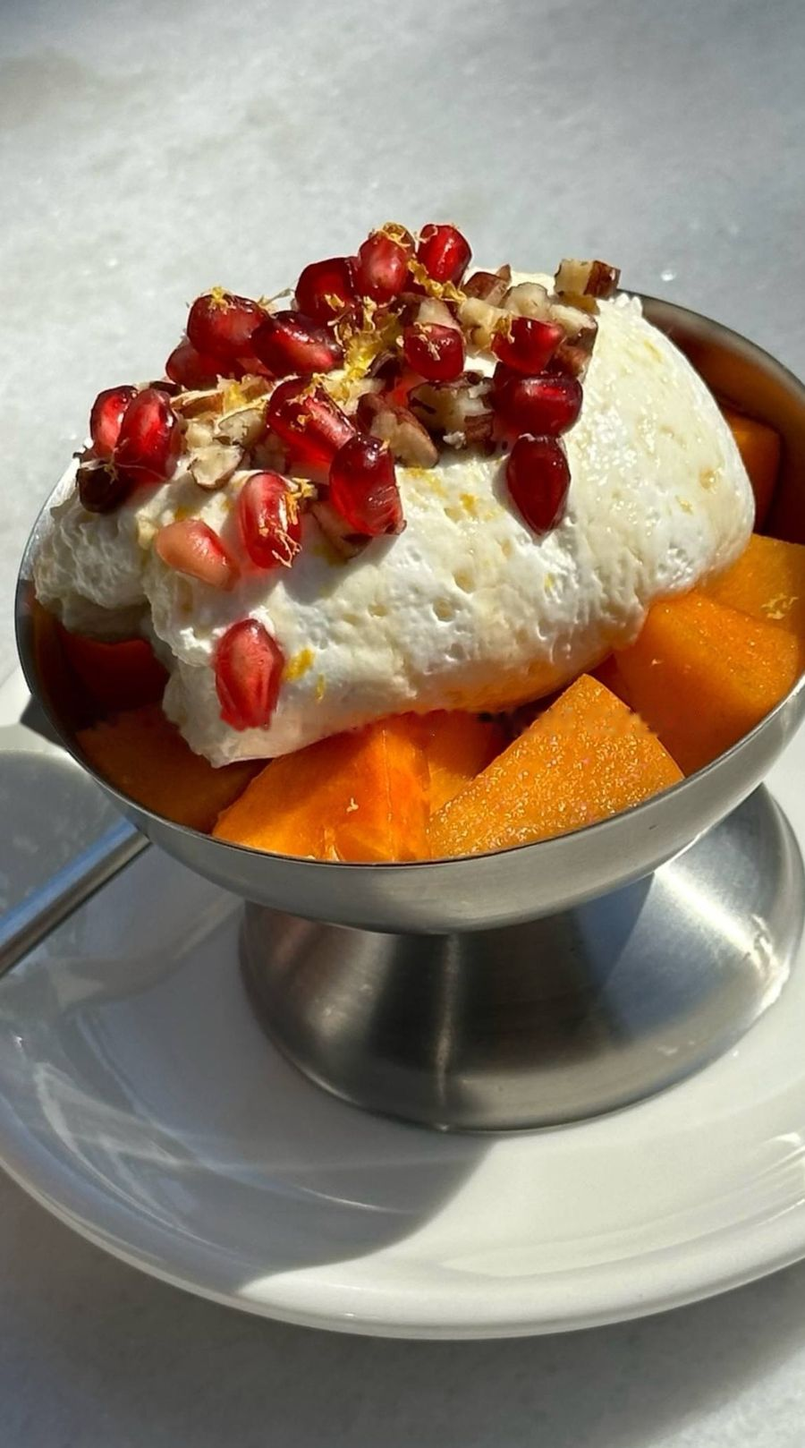
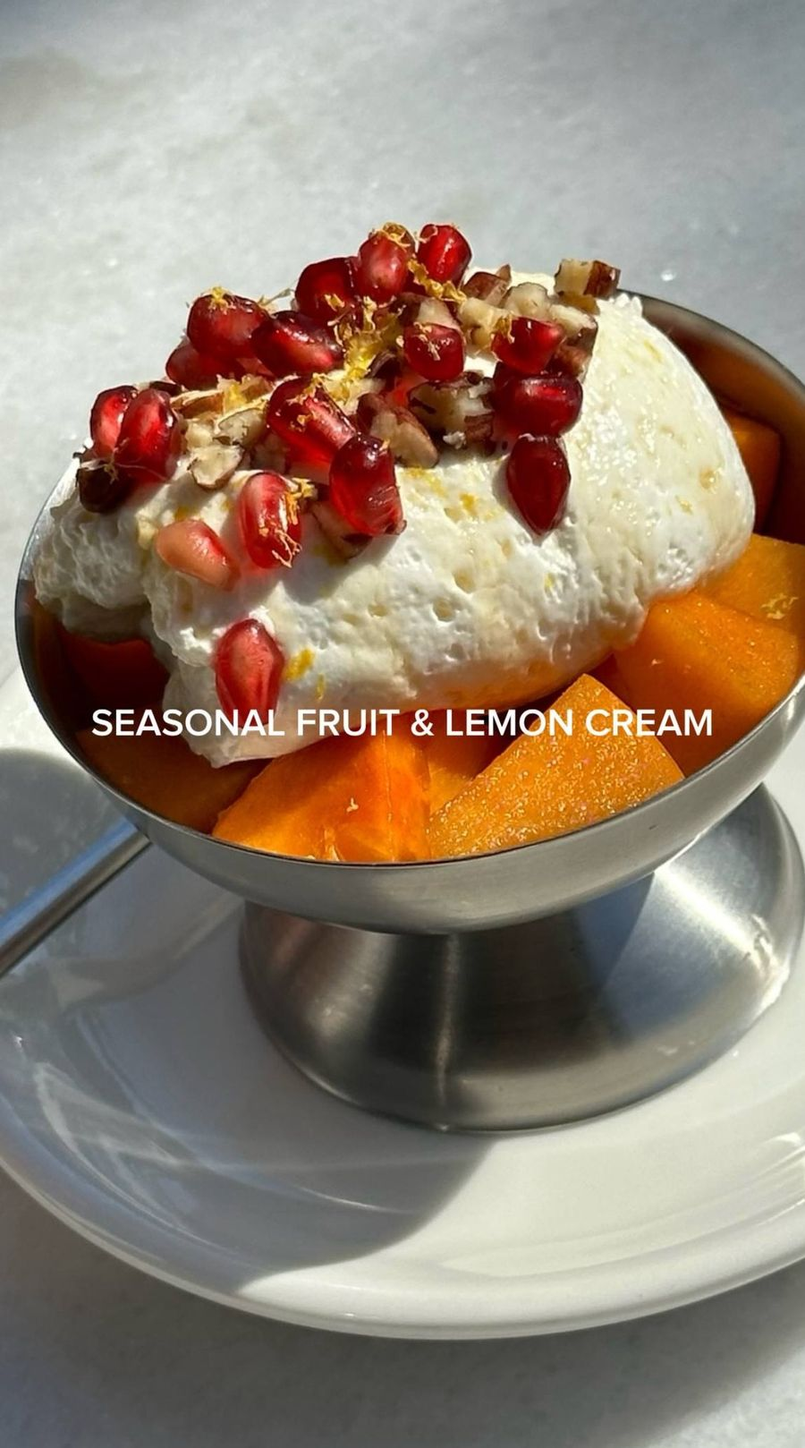
Menu dish photos: keep the Instagram dish-name overlays, drop duplicate captions
Claude-Session: https://claude.ai/code/session_01V5p9waPZsE8MXT3q82iYXb

Changed region(s): [[0.1244, 0.4635, 0.9022, 0.5253], [0.0, 0.4635, 0.0933, 0.5253], [0.9644, 0.4635, 0.9956, 0.4944]]

diff --git a/public/pt/menu/index.html b/public/pt/menu/index.html
@@ -106,7 +106,7 @@ footer{margin-top:72px;padding-top:20px;border-top:1px solid var(--rule);color:v
 <nav class="sections" aria-label="Secções do menu"><ul><li><a href="#breakfast">Pequeno-almoço</a></li><li><a href="#omelettes">Omeletes</a></li><li><a href="#crepes">Crêpes</a></li><li><a href="#brunch">Brunch</a></li><li><a href="#desserts">Sobremesas</a></li><li><a href="#coffee">Café</a></li><li><a href="#matcha">Matcha</a></li><li><a href="#ceremonial">Cerimonial</a></li><li><a href="#specials">Especiais</a></li><li><a href="#chocolate">Chocolate</a></li><li><a href="#tea">Chá e bebidas</a></li><li><a href="#wine">Vinho</a></li></ul></nav>
 <section class="sec" id="breakfast" data-photo="dishes/scrambled-eggs" aria-labelledby="h-breakfast">
 <h2 id="h-breakfast">Crie o seu pequeno-almoço</h2>
-<div class="strip"><figure><img src="/menu/img/dishes/scrambled-eggs.jpg" alt="Ovos mexidos" width="900" height="1125" loading="lazy" decoding="async"><figcaption>Ovos mexidos</figcaption></figure><figure><img src="/menu/img/dishes/breakfast-plate.jpg" alt="Prato de pequeno-almoço" width="900" height="1125" loading="lazy" decoding="async"><figcaption>Prato de pequeno-almoço</figcaption></figure></div>
+<div class="strip"><figure><img src="/menu/img/dishes/scrambled-eggs.jpg" alt="Ovos mexidos" width="900" height="1125" loading="lazy" decoding="async"></figure><figure><img src="/menu/img/dishes/breakfast-plate.jpg" alt="Prato de pequeno-almoço" width="900" height="1125" loading="lazy" decoding="async"></figure></div>
 <div class="item" data-photo="dishes/scrambled-eggs"><p class="item-head"><span class="item-name">Ovos mexidos</span><span class="leader" aria-hidden="true"></span><span class="price">9</span></p><p class="desc">Ovos mexidos cremosos, iogurte grego, parmesão e pão de fermentação natural tostado</p></div>
 <div class="item" data-photo="dishes/breakfast-plate"><p class="item-head"><span class="item-name">Prato de pequeno-almoço</span><span class="leader" aria-hidden="true"></span><span class="price">10</span></p><p class="desc">Pão de fermentação natural, queijo, abacate, ovo cozido, manteiga batida e compota de mirtilos</p></div>
 <h3 class="group">Escolha os seus extras</h3><ul class="extras">
@@ -128,7 +128,7 @@ footer{margin-top:72px;padding-top:20px;border-top:1px solid var(--rule);color:v
 </section>
 <section class="sec" id="omelettes" data-photo="dishes/four-cheese-omelette" aria-labelledby="h-omelettes">
 <h2 id="h-omelettes">Omeletes</h2>
-<div class="strip"><figure><img src="/menu/img/dishes/four-cheese-omelette.jpg" alt="Omelete de quatro queijos e doce de cebola" width="900" height="1125" loading="lazy" decoding="async"><figcaption>Omelete de quatro queijos e doce de cebola</figcaption></figure><figure><img src="/menu/img/dishes/truffle-mushroom-omelette.jpg" alt="Omelete de cogumelos trufados" width="900" height="1125" loading="lazy" decoding="async"><figcaption>Omelete de cogumelos trufados</figcaption></figure><figure><img src="/menu/img/dishes/green-omelette.jpg" alt="Omelete verde" width="900" height="1125" loading="lazy" decoding="async"><figcaption>Omelete verde</figcaption></figure></div>
+<div class="strip"><figure><img src="/menu/img/dishes/four-cheese-omelette.jpg" alt="Omelete de quatro queijos e doce de cebola" width="900" height="1125" loading="lazy" decoding="async"></figure><figure><img src="/menu/img/dishes/truffle-mushroom-omelette.jpg" alt="Omelete de cogumelos trufados" width="900" height="1125" loading="lazy" decoding="async"></figure><figure><img src="/menu/img/dishes/green-omelette.jpg" alt="Omelete verde" width="900" height="1125" loading="lazy" decoding="async"></figure></div>
 <p class="note">Todas as omeletes são servidas com salada verde. Adicione pão – 2</p>
 <div class="item"><p class="item-head"><span class="item-name">Omelete de fiambre e doce de tomate</span><span class="leader" aria-hidden="true"></span><span class="price">13</span></p><p class="desc">Fiambre, marmelada de tomate, mozzarella e grana padano</p></div>
 <div class="item" data-photo="dishes/four-cheese-omelette"><p class="item-head"><span class="item-name">Omelete de quatro queijos e doce de cebola</span><span class="leader" aria-hidden="true"></span><span class="price">13</span></p><p class="desc">Creme de gorgonzola, compota de cebola, mozzarella, parmesão e nozes caramelizadas</p><p class="add">Adicionar fiambre – 4</p></div>
@@ -137,7 +137,7 @@ footer{margin-top:72px;padding-top:20px;border-top:1px solid var(--rule);color:v
 </section>
 <section class="sec" id="crepes" data-photo="dishes/mushroom-gorgonzola-crepe" aria-labelledby="h-crepes">
 <h2 id="h-crepes">Crêpes</h2>
-<div class="strip"><figure><img src="/menu/img/dishes/mushroom-gorgonzola-crepe.jpg" alt="Crêpe de cogumelos e gorgonzola" width="900" height="1125" loading="lazy" decoding="async"><figcaption>Crêpe de cogumelos e gorgonzola</figcaption></figure><figure><img src="/menu/img/dishes/salted-salmon-crepe.jpg" alt="Crêpe de salmão curado" width="900" height="1125" loading="lazy" decoding="async"><figcaption>Crêpe de salmão curado</figcaption></figure><figure><img src="/menu/img/dishes/crepe-suzette.jpg" alt="Crêpe Suzette" width="900" height="1125" loading="lazy" decoding="async"><figcaption>Crêpe Suzette</figcaption></figure></div>
+<div class="strip"><figure><img src="/menu/img/dishes/mushroom-gorgonzola-crepe.jpg" alt="Crêpe de cogumelos e gorgonzola" width="900" height="1125" loading="lazy" decoding="async"></figure><figure><img src="/menu/img/dishes/salted-salmon-crepe.jpg" alt="Crêpe de salmão curado" width="900" height="1125" loading="lazy" decoding="async"></figure><figure><img src="/menu/img/dishes/crepe-suzette.jpg" alt="Crêpe Suzette" width="900" height="1125" loading="lazy" decoding="async"></figure></div>
 <div class="item"><p class="item-head"><span class="item-name">Crêpe de pastrami, batata e trufa</span><span class="leader" aria-hidden="true"></span><span class="price">14</span></p><p class="desc">Pastrami de vaca, puré de batata, molho de trufa, queijo gouda e doce de tomate</p></div>
 <div class="item" data-photo="dishes/mushroom-gorgonzola-crepe"><p class="item-head"><span class="item-name">Crêpe de cogumelos e gorgonzola</span><span class="leader" aria-hidden="true"></span><span class="price">12</span></p><p class="desc">Juliana de cogumelos, creme de gorgonzola, espinafres, mozzarella e iogurte</p></div>
 <div class="item" data-photo="dishes/salted-salmon-crepe"><p class="item-head"><span class="item-name">Crêpe de salmão curado</span><span class="leader" aria-hidden="true"></span><span class="price">13</span></p><p class="desc">Salmão curado, ovo cozido, cream cheese batido com limão e cebola marinada</p></div>
@@ -145,7 +145,7 @@ footer{margin-top:72px;padding-top:20px;border-top:1px solid var(--rule);color:v
 </section>
 <section class="sec" id="brunch" data-photo="dishes/eggs-benedict-salmon" aria-labelledby="h-brunch">
 <h2 id="h-brunch">Pratos de brunch</h2>
-<div class="strip"><figure><img src="/menu/img/dishes/eggs-benedict-salmon.jpg" alt="Ovos Benedict – salmão" width="900" height="1125" loading="lazy" decoding="async"><figcaption>Ovos Benedict – salmão</figcaption></figure><figure><img src="/menu/img/dishes/eggs-benedict-pastrami.jpg" alt="Ovos Benedict – pastrami" width="900" height="1125" loading="lazy" decoding="async"><figcaption>Ovos Benedict – pastrami</figcaption></figure><figure><img src="/menu/img/dishes/croque-madame.jpg" alt="Croque madame" width="900" height="1125" loading="lazy" decoding="async"><figcaption>Croque madame</figcaption></figure><figure><img src="/menu/img/dishes/savory-oatmeal.jpg" alt="Papas de aveia salgadas com fiambre" width="900" height="1125" loading="lazy" decoding="async"><figcaption>Papas de aveia salgadas com fiambre</figcaption></figure><figure><img src="/menu/img/dishes/sweet-oatmeal.jpg" alt="Papas de aveia doces com compota de mirtilos" width="900" height="1125" loading="lazy" decoding="async"><figcaption>Papas de aveia doces com compota de mirtilos</figcaption></figure></div>
+<div class="strip"><figure><img src="/menu/img/dishes/eggs-benedict-salmon.jpg" alt="Ovos Benedict – salmão" width="900" height="1125" loading="lazy" decoding="async"></figure><figure><img src="/menu/img/dishes/eggs-benedict-pastrami.jpg" alt="Ovos Benedict – pastrami" width="900" height="1125" loading="lazy" decoding="async"></figure><figure><img src="/menu/img/dishes/croque-madame.jpg" alt="Croque madame" width="900" height="1125" loading="lazy" decoding="async"></figure><figure><img src="/menu/img/dishes/savory-oatmeal.jpg" alt="Papas de aveia salgadas com fiambre" width="900" height="1125" loading="lazy" decoding="async"></figure><figure><img src="/menu/img/dishes/sweet-oatmeal.jpg" alt="Papas de aveia doces com compota de mirtilos" width="900" height="1125" loading="lazy" decoding="async"></figure></div>
 <div class="item" data-photo="dishes/eggs-benedict-salmon"><p class="item-head"><span class="item-name">Ovos Benedict – salmão ou pastrami</span><span class="leader" aria-hidden="true"></span><span class="price">14</span></p><p class="desc">Brioche, ovos escalfados, molho holandês e espinafres, com salmão curado ou pastrami à escolha</p><p class="add">Adicionar abacate – 4</p></div>
 <div class="item" data-photo="dishes/croque-madame"><p class="item-head"><span class="item-name">Croque madame</span><span class="leader" aria-hidden="true"></span><span class="price">13</span></p><p class="desc">Pão de fermentação natural tostado (ou brioche +0.50), molho mornay de trufa, queijo gouda, prosciutto, doce de cebola e ovos escalfados</p><p class="add">Adicionar salada verde – 4</p></div>
 <div class="item" data-photo="dishes/savory-oatmeal"><p class="item-head"><span class="item-name">Papas de aveia salgadas com fiambre</span><span class="leader" aria-hidden="true"></span><span class="price">11</span></p><p class="desc">Aveia cremosa com fiambre, ovo escalfado, manteiga trufada (beurre monté) e grana padano</p><p class="add">Adicionar ovo escalfado extra – 1.50</p></div>
@@ -155,7 +155,7 @@ footer{margin-top:72px;padding-top:20px;border-top:1px solid var(--rule);color:v
 </section>
 <section class="sec" id="desserts" data-photo="dishes/seasonal-fruit-lemon-cream" aria-labelledby="h-desserts">
 <h2 id="h-desserts">Sobremesas</h2>
-<div class="strip"><figure><img src="/menu/img/dishes/seasonal-fruit-lemon-cream.jpg" alt="Fruta da época e creme de limão" width="900" height="1125" loading="lazy" decoding="async"><figcaption>Fruta da época e creme de limão</figcaption></figure><figure><img src="/menu/img/dishes/rice-pudding.jpg" alt="Arroz doce" width="900" height="1125" loading="lazy" decoding="async"><figcaption>Arroz doce</figcaption></figure><figure><img src="/menu/img/dishes/creme-brulee.jpg" alt="Crème brûlée" width="900" height="1125" loading="lazy" decoding="async"><figcaption>Crème brûlée</figcaption></figure></div>
+<div class="strip"><figure><img src="/menu/img/dishes/seasonal-fruit-lemon-cream.jpg" alt="Fruta da época e creme de limão" width="900" height="1125" loading="lazy" decoding="async"></figure><figure><img src="/menu/img/dishes/rice-pudding.jpg" alt="Arroz doce" width="900" height="1125" loading="lazy" decoding="async"></figure><figure><img src="/menu/img/dishes/creme-brulee.jpg" alt="Crème brûlée" width="900" height="1125" loading="lazy" decoding="async"></figure></div>
 <div class="item" data-photo="dishes/seasonal-fruit-lemon-cream"><p class="item-head"><span class="item-name">Fruta da época e creme de limão</span><span class="leader" aria-hidden="true"></span><span class="price">5</span></p><p class="desc">Fruta fresca da época com creme de limão batido</p></div>
 <div class="item" data-photo="dishes/rice-pudding"><p class="item-head"><span class="item-name">Arroz doce</span><span class="leader" aria-hidden="true"></span><span class="price">8</span></p><p class="desc">Arroz doce cremoso com morangos frescos, molho de morango e nozes caramelizadas</p></div>
 <div class="item" data-photo="dishes/creme-brulee"><p class="item-head"><span class="item-name">Crème brûlée</span><span class="leader" aria-hidden="true"></span><span class="price">5</span></p><p class="desc">Clássico crème brûlée de baunilha com crosta de açúcar caramelizado</p></div>
@@ -252,7 +252,7 @@ footer{margin-top:72px;padding-top:20px;border-top:1px solid var(--rule);color:v
 </section>
 <footer><span>Menu de 22 de julho de 2026</span><a href="mailto:hello@albalisbon.com">hello@albalisbon.com</a><a href="https://instagram.com/albabistro.lisbon">Instagram</a><a href="/">Voltar a albalisbon.com</a></footer>
 </main>
-<aside class="panel" aria-hidden="true"><img src="/menu/img/dishes/scrambled-eggs.jpg" data-key="dishes/scrambled-eggs" alt="Ovos mexidos" class="on" fetchpriority="high" decoding="async"><img src="/menu/img/dishes/breakfast-plate.jpg" data-key="dishes/breakfast-plate" alt="Prato de pequeno-almoço" loading="lazy" decoding="async"><img src="/menu/img/breakfast-plate.jpg" data-key="breakfast-plate" alt="Prato de pequeno-almoço com pão de fermentação natural, ovos cozidos, abacate, manteiga e compota, com matcha latte" loading="lazy" decoding="async"><img src="/menu/img/dishes/four-cheese-omelette.jpg" data-key="dishes/four-cheese-omelette" alt="Omelete de quatro queijos e doce de cebola" loading="lazy" decoding="async"><img src="/menu/img/dishes/truffle-mushroom-omelette.jpg" data-key="dishes/truffle-mushroom-omelette" alt="Omelete de cogumelos trufados" loading="lazy" decoding="async"><img src="/menu/img/dishes/green-omelette.jpg" data-key="dishes/green-omelette" alt="Omelete verde" loading="lazy" decoding="async"><img src="/menu/img/dishes/mushroom-gorgonzola-crepe.jpg" data-key="dishes/mushroom-gorgonzola-crepe" alt="Crêpe de cogumelos e gorgonzola" loading="lazy" decoding="async"><img src="/menu/img/dishes/salted-salmon-crepe.jpg" data-key="dishes/salted-salmon-crepe" alt="Crêpe de salmão curado" loading="lazy" decoding="async"><img src="/menu/img/dishes/crepe-suzette.jpg" data-key="dishes/crepe-suzette" alt="Crêpe Suzette" loading="lazy" decoding="async"><img src="/menu/img/dishes/eggs-benedict-salmon.jpg" data-key="dishes/eggs-benedict-salmon" alt="Ovos Benedict – salmão" loading="lazy" decoding="async"><img src="/menu/img/dishes/eggs-benedict-pastrami.jpg" data-key="dishes/eggs-benedict-pastrami" alt="Ovos Benedict – pastrami" loading="lazy" decoding="async"><img src="/menu/img/dishes/croque-madame.jpg" data-key="dishes/croque-madame" alt="Croque madame" loading="lazy" decoding="async"><img src="/menu/img/dishes/savory-oatmeal.jpg" data-key="dishes/savory-oatmeal" alt="Papas de aveia salgadas com fiambre" loading="lazy" decoding="async"><img src="/menu/img/dishes/sweet-oatmeal.jpg" data-key="dishes/sweet-oatmeal" alt="Papas de aveia doces com compota de mirtilos" loading="lazy" decoding="async"><img src="/menu/img/savory-oatmeal-prosciutto.jpg" data-key="savory-oatmeal-prosciutto" alt="Papas de aveia salgadas com fiambre, ovo escalfado e grana padano" loading="lazy" decoding="async"><img src="/menu/img/dishes/seasonal-fruit-lemon-cream.jpg" data-key="dishes/seasonal-fruit-lemon-cream" alt="Fruta da época e creme de limão" loading="lazy" decoding="async"><img src="/menu/img/dishes/rice-pudding.jpg" data-key="dishes/rice-pudding" alt="Arroz doce" loading="lazy" decoding="async"><img src="/menu/img/dishes/creme-brulee.jpg" data-key="dishes/creme-brulee" alt="Crème brûlée" loading="lazy" decoding="async"><img src="/menu/img/cappuccino-matcha-latte.jpg" data-key="cappuccino-matcha-latte" alt="Cappuccino e matcha latte" loading="lazy" decoding="async"><img src="/menu/img/strawberry-matcha.jpg" data-key="strawberry-matcha" alt="Matcha de morango com gelado de morango batido" loading="lazy" decoding="async"><img src="/menu/img/matcha-tasting-set.jpg" data-key="matcha-tasting-set" alt="Set de degustação de matcha cerimonial com três variedades" loading="lazy" decoding="async"><img src="/menu/img/matcha-latte.jpg" data-key="matcha-latte" alt="Barista a servir um matcha latte" loading="lazy" decoding="async"><img src="/menu/img/herbal-tea.jpg" data-key="herbal-tea" alt="Chá de ervas com bule" loading="lazy" decoding="async"><img src="/menu/img/wine-toast.jpg" data-key="wine-toast" alt="Clientes a brindar com copos de vinho branco" loading="lazy" decoding="async"><img src="/menu/img/terrace.jpg" data-key="terrace" alt="A esplanada do Alba no Largo do Rato" loading="lazy" decoding="async"><p class="caption">Ovos mexidos</p></aside>
+<aside class="panel" aria-hidden="true"><img src="/menu/img/dishes/scrambled-eggs.jpg" data-key="dishes/scrambled-eggs" alt="Ovos mexidos" class="on" fetchpriority="high" decoding="async"><img src="/menu/img/dishes/breakfast-plate.jpg" data-key="dishes/breakfast-plate" alt="Prato de pequeno-almoço" loading="lazy" decoding="async"><img src="/menu/img/breakfast-plate.jpg" data-key="breakfast-plate" alt="Prato de pequeno-almoço com pão de fermentação natural, ovos cozidos, abacate, manteiga e compota, com matcha latte" loading="lazy" decoding="async"><img src="/menu/img/dishes/four-cheese-omelette.jpg" data-key="dishes/four-cheese-omelette" alt="Omelete de quatro queijos e doce de cebola" loading="lazy" decoding="async"><img src="/menu/img/dishes/truffle-mushroom-omelette.jpg" data-key="dishes/truffle-mushroom-omelette" alt="Omelete de cogumelos trufados" loading="lazy" decoding="async"><img src="/menu/img/dishes/green-omelette.jpg" data-key="dishes/green-omelette" alt="Omelete verde" loading="lazy" decoding="async"><img src="/menu/img/dishes/mushroom-gorgonzola-crepe.jpg" data-key="dishes/mushroom-gorgonzola-crepe" alt="Crêpe de cogumelos e gorgonzola" loading="lazy" decoding="async"><img src="/menu/img/dishes/salted-salmon-crepe.jpg" data-key="dishes/salted-salmon-crepe" alt="Crêpe de salmão curado" loading="lazy" decoding="async"><img src="/menu/img/dishes/crepe-suzette.jpg" data-key="dishes/crepe-suzette" alt="Crêpe Suzette" loading="lazy" decoding="async"><img src="/menu/img/dishes/eggs-benedict-salmon.jpg" data-key="dishes/eggs-benedict-salmon" alt="Ovos Benedict – salmão" loading="lazy" decoding="async"><img src="/menu/img/dishes/eggs-benedict-pastrami.jpg" data-key="dishes/eggs-benedict-pastrami" alt="Ovos Benedict – pastrami" loading="lazy" decoding="async"><img src="/menu/img/dishes/croque-madame.jpg" data-key="dishes/croque-madame" alt="Croque madame" loading="lazy" decoding="async"><img src="/menu/img/dishes/savory-oatmeal.jpg" data-key="dishes/savory-oatmeal" alt="Papas de aveia salgadas com fiambre" loading="lazy" decoding="async"><img src="/menu/img/dishes/sweet-oatmeal.jpg" data-key="dishes/sweet-oatmeal" alt="Papas de aveia doces com compota de mirtilos" loading="lazy" decoding="async"><img src="/menu/img/savory-oatmeal-prosciutto.jpg" data-key="savory-oatmeal-prosciutto" alt="Papas de aveia salgadas com fiambre, ovo escalfado e grana padano" loading="lazy" decoding="async"><img src="/menu/img/dishes/seasonal-fruit-lemon-cream.jpg" data-key="dishes/seasonal-fruit-lemon-cream" alt="Fruta da época e creme de limão" loading="lazy" decoding="async"><img src="/menu/img/dishes/rice-pudding.jpg" data-key="dishes/rice-pudding" alt="Arroz doce" loading="lazy" decoding="async"><img src="/menu/img/dishes/creme-brulee.jpg" data-key="dishes/creme-brulee" alt="Crème brûlée" loading="lazy" decoding="async"><img src="/menu/img/cappuccino-matcha-latte.jpg" data-key="cappuccino-matcha-latte" alt="Cappuccino e matcha latte" loading="lazy" decoding="async"><img src="/menu/img/strawberry-matcha.jpg" data-key="strawberry-matcha" alt="Matcha de morango com gelado de morango batido" loading="lazy" decoding="async"><img src="/menu/img/matcha-tasting-set.jpg" data-key="matcha-tasting-set" alt="Set de degustação de matcha cerimonial com três variedades" loading="lazy" decoding="async"><img src="/menu/img/matcha-latte.jpg" data-key="matcha-latte" alt="Barista a servir um matcha latte" loading="lazy" decoding="async"><img src="/menu/img/herbal-tea.jpg" data-key="herbal-tea" alt="Chá de ervas com bule" loading="lazy" decoding="async"><img src="/menu/img/wine-toast.jpg" data-key="wine-toast" alt="Clientes a brindar com copos de vinho branco" loading="lazy" decoding="async"><img src="/menu/img/terrace.jpg" data-key="terrace" alt="A esplanada do Alba no Largo do Rato" loading="lazy" decoding="async"><p class="caption"></p></aside>
 </div>
 <script>
 (function(){
@@ -268,7 +268,7 @@ footer{margin-top:72px;padding-top:20px;border-top:1px solid var(--rule);color:v
     if(!key||key===shown||!imgs[key])return;
     var img=imgs[key]; if(img.loading==='lazy'){img.loading='eager'}
     imgs[shown].classList.remove('on'); img.classList.add('on'); shown=key;
-    if(cap)cap.textContent=img.alt;
+    if(cap)cap.textContent=key.indexOf('dishes/')===0?'':img.alt;
   }
   function activate(sec){
     if(sec===current)return; current=sec;

diff --git a/public/menu/index.html b/public/menu/index.html
@@ -106,7 +106,7 @@ footer{margin-top:72px;padding-top:20px;border-top:1px solid var(--rule);color:v
 <nav class="sections" aria-label="Menu sections"><ul><li><a href="#breakfast">Breakfast</a></li><li><a href="#omelettes">Omelettes</a></li><li><a href="#crepes">Crêpes</a></li><li><a href="#brunch">Brunch</a></li><li><a href="#desserts">Desserts</a></li><li><a href="#coffee">Coffee</a></li><li><a href="#matcha">Matcha</a></li><li><a href="#ceremonial">Ceremonial</a></li><li><a href="#specials">Specials</a></li><li><a href="#chocolate">Chocolate</a></li><li><a href="#tea">Tea &amp; soft</a></li><li><a href="#wine">Wine</a></li></ul></nav>
 <section class="sec" id="breakfast" data-photo="dishes/scrambled-eggs" aria-labelledby="h-breakfast">
 <h2 id="h-breakfast">Create your own breakfast</h2>
-<div class="strip"><figure><img src="/menu/img/dishes/scrambled-eggs.jpg" alt="Scrambled eggs" width="900" height="1125" loading="lazy" decoding="async"><figcaption>Scrambled eggs</figcaption></figure><figure><img src="/menu/img/dishes/breakfast-plate.jpg" alt="Breakfast plate" width="900" height="1125" loading="lazy" decoding="async"><figcaption>Breakfast plate</figcaption></figure></div>
+<div class="strip"><figure><img src="/menu/img/dishes/scrambled-eggs.jpg" alt="Scrambled eggs" width="900" height="1125" loading="lazy" decoding="async"></figure><figure><img src="/menu/img/dishes/breakfast-plate.jpg" alt="Breakfast plate" width="900" height="1125" loading="lazy" decoding="async"></figure></div>
 <div class="item" data-photo="dishes/scrambled-eggs"><p class="item-head"><span class="item-name">Scrambled eggs</span><span class="leader" aria-hidden="true"></span><span class="price">9</span></p><p class="desc">Soft scrambled eggs, Greek yogurt, parmesan and toasted sourdough bread</p></div>
 <div class="item" data-photo="dishes/breakfast-plate"><p class="item-head"><span class="item-name">Breakfast plate</span><span class="leader" aria-hidden="true"></span><span class="price">10</span></p><p class="desc">Sourdough bread, cheese, avocado, boiled egg, whipped butter and blueberry jam</p></div>
 <h3 class="group">Choose your extras</h3><ul class="extras">
@@ -128,7 +128,7 @@ footer{margin-top:72px;padding-top:20px;border-top:1px solid var(--rule);color:v
 </section>
 <section class="sec" id="omelettes" data-photo="dishes/four-cheese-omelette" aria-labelledby="h-omelettes">
 <h2 id="h-omelettes">Omelettes</h2>
-<div class="strip"><figure><img src="/menu/img/dishes/four-cheese-omelette.jpg" alt="Four cheese &amp; onion jam omelette" width="900" height="1125" loading="lazy" decoding="async"><figcaption>Four cheese &amp; onion jam omelette</figcaption></figure><figure><img src="/menu/img/dishes/truffle-mushroom-omelette.jpg" alt="Truffle mushroom omelette" width="900" height="1125" loading="lazy" decoding="async"><figcaption>Truffle mushroom omelette</figcaption></figure><figure><img src="/menu/img/dishes/green-omelette.jpg" alt="Green omelette" width="900" height="1125" loading="lazy" decoding="async"><figcaption>Green omelette</figcaption></figure></div>
+<div class="strip"><figure><img src="/menu/img/dishes/four-cheese-omelette.jpg" alt="Four cheese &amp; onion jam omelette" width="900" height="1125" loading="lazy" decoding="async"></figure><figure><img src="/menu/img/dishes/truffle-mushroom-omelette.jpg" alt="Truffle mushroom omelette" width="900" height="1125" loading="lazy" decoding="async"></figure><figure><img src="/menu/img/dishes/green-omelette.jpg" alt="Green omelette" width="900" height="1125" loading="lazy" decoding="async"></figure></div>
 <p class="note">All omelettes are served with green salad. Add bread – 2</p>
 <div class="item"><p class="item-head"><span class="item-name">Prosciutto cotto &amp; tomato jam omelette</span><span class="leader" aria-hidden="true"></span><span class="price">13</span></p><p class="desc">Prosciutto cotto, tomato marmalade, mozzarella and grana padano</p></div>
 <div class="item" data-photo="dishes/four-cheese-omelette"><p class="item-head"><span class="item-name">Four cheese &amp; onion jam omelette</span><span class="leader" aria-hidden="true"></span><span class="price">13</span></p><p class="desc">Gorgonzola cream, onion jam, mozzarella, parmesan and caramelized walnut</p><p class="add">Add prosciutto cotto – 4</p></div>
@@ -137,7 +137,7 @@ footer{margin-top:72px;padding-top:20px;border-top:1px solid var(--rule);color:v
 </section>
 <section class="sec" id="crepes" data-photo="dishes/mushroom-gorgonzola-crepe" aria-labelledby="h-crepes">
 <h2 id="h-crepes">Crêpes</h2>
-<div class="strip"><figure><img src="/menu/img/dishes/mushroom-gorgonzola-crepe.jpg" alt="Mushroom &amp; gorgonzola crêpe" width="900" height="1125" loading="lazy" decoding="async"><figcaption>Mushroom &amp; gorgonzola crêpe</figcaption></figure><figure><img src="/menu/img/dishes/salted-salmon-crepe.jpg" alt="Salted salmon crêpe" width="900" height="1125" loading="lazy" decoding="async"><figcaption>Salted salmon crêpe</figcaption></figure><figure><img src="/menu/img/dishes/crepe-suzette.jpg" alt="Crêpe Suzette" width="900" height="1125" loading="lazy" decoding="async"><figcaption>Crêpe Suzette</figcaption></figure></div>
+<div class="strip"><figure><img src="/menu/img/dishes/mushroom-gorgonzola-crepe.jpg" alt="Mushroom &amp; gorgonzola crêpe" width="900" height="1125" loading="lazy" decoding="async"></figure><figure><img src="/menu/img/dishes/salted-salmon-crepe.jpg" alt="Salted salmon crêpe" width="900" height="1125" loading="lazy" decoding="async"></figure><figure><img src="/menu/img/dishes/crepe-suzette.jpg" alt="Crêpe Suzette" width="900" height="1125" loading="lazy" decoding="async"></figure></div>
 <div class="item"><p class="item-head"><span class="item-name">Pastrami &amp; truffle potato crêpe</span><span class="leader" aria-hidden="true"></span><span class="price">14</span></p><p class="desc">Beef pastrami, mashed potato, truffle sauce, gouda and tomato jam</p></div>
 <div class="item" data-photo="dishes/mushroom-gorgonzola-crepe"><p class="item-head"><span class="item-name">Mushroom &amp; gorgonzola crêpe</span><span class="leader" aria-hidden="true"></span><span class="price">12</span></p><p class="desc">Mushroom julienne, gorgonzola cream, spinach, mozzarella and yogurt</p></div>
 <div class="item" data-photo="dishes/salted-salmon-crepe"><p class="item-head"><span class="item-name">Salted salmon crêpe</span><span class="leader" aria-hidden="true"></span><span class="price">13</span></p><p class="desc">Salted salmon, boiled egg, whipped lemon cream cheese and marinated onion</p></div>
@@ -145,7 +145,7 @@ footer{margin-top:72px;padding-top:20px;border-top:1px solid var(--rule);color:v
 </section>
 <section class="sec" id="brunch" data-photo="dishes/eggs-benedict-salmon" aria-labelledby="h-brunch">
 <h2 id="h-brunch">Brunch plates</h2>
-<div class="strip"><figure><img src="/menu/img/dishes/eggs-benedict-salmon.jpg" alt="Eggs Benedict – salmon" width="900" height="1125" loading="lazy" decoding="async"><figcaption>Eggs Benedict – salmon</figcaption></figure><figure><img src="/menu/img/dishes/eggs-benedict-pastrami.jpg" alt="Eggs Benedict – pastrami" width="900" height="1125" loading="lazy" decoding="async"><figcaption>Eggs Benedict – pastrami</figcaption></figure><figure><img src="/menu/img/dishes/croque-madame.jpg" alt="Croque madame" width="900" height="1125" loading="lazy" decoding="async"><figcaption>Croque madame</figcaption></figure><figure><img src="/menu/img/dishes/savory-oatmeal.jpg" alt="Savory oatmeal with prosciutto cotto" width="900" height="1125" loading="lazy" decoding="async"><figcaption>Savory oatmeal with prosciutto cotto</figcaption></figure><figure><img src="/menu/img/dishes/sweet-oatmeal.jpg" alt="Sweet creamy oatmeal with berry jam" width="900" height="1125" loading="lazy" decoding="async"><figcaption>Sweet creamy oatmeal with berry jam</figcaption></figure></div>
+<div class="strip"><figure><img src="/menu/img/dishes/eggs-benedict-salmon.jpg" alt="Eggs Benedict – salmon" width="900" height="1125" loading="lazy" decoding="async"></figure><figure><img src="/menu/img/dishes/eggs-benedict-pastrami.jpg" alt="Eggs Benedict – pastrami" width="900" height="1125" loading="lazy" decoding="async"></figure><figure><img src="/menu/img/dishes/croque-madame.jpg" alt="Croque madame" width="900" height="1125" loading="lazy" decoding="async"></figure><figure><img src="/menu/img/dishes/savory-oatmeal.jpg" alt="Savory oatmeal with prosciutto cotto" width="900" height="1125" loading="lazy" decoding="async"></figure><figure><img src="/menu/img/dishes/sweet-oatmeal.jpg" alt="Sweet creamy oatmeal with berry jam" width="900" height="1125" loading="lazy" decoding="async"></figure></div>
 <div class="item" data-photo="dishes/eggs-benedict-salmon"><p class="item-head"><span class="item-name">Eggs Benedict – salmon or pastrami</span><span class="leader" aria-hidden="true"></span><span class="price">14</span></p><p class="desc">Brioche, poached eggs, hollandaise and spinach, with your choice of salted salmon or pastrami</p><p class="add">Add avocado – 4</p></div>
 <div class="item" data-photo="dishes/croque-madame"><p class="item-head"><span class="item-name">Croque madame</span><span class="leader" aria-hidden="true"></span><span class="price">13</span></p><p class="desc">Toasted sourdough bread (or brioche +0.50), truffle mornay, gouda, prosciutto, onion jam and poached eggs</p><p class="add">Add green salad – 4</p></div>
 <div class="item" data-photo="dishes/savory-oatmeal"><p class="item-head"><span class="item-name">Savory oatmeal with prosciutto cotto</span><span class="leader" aria-hidden="true"></span><span class="price">11</span></p><p class="desc">Creamy oats with prosciutto cotto, poached egg, truffle beurre monté and grana padano</p><p class="add">Add extra poached egg – 1.50</p></div>
@@ -155,7 +155,7 @@ footer{margin-top:72px;padding-top:20px;border-top:1px solid var(--rule);color:v
 </section>
 <section class="sec" id="desserts" data-photo="dishes/seasonal-fruit-lemon-cream" aria-labelledby="h-desserts">
 <h2 id="h-desserts">Desserts</h2>
-<div class="strip"><figure><img src="/menu/img/dishes/seasonal-fruit-lemon-cream.jpg" alt="Seasonal fruit &amp; lemon cream" width="900" height="1125" loading="lazy" decoding="async"><figcaption>Seasonal fruit &amp; lemon cream</figcaption></figure><figure><img src="/menu/img/dishes/rice-pudding.jpg" alt="Rice pudding" width="900" height="1125" loading="lazy" decoding="async"><figcaption>Rice pudding</figcaption></figure><figure><img src="/menu/img/dishes/creme-brulee.jpg" alt="Crème brûlée" width="900" height="1125" loading="lazy" decoding="async"><figcaption>Crème brûlée</figcaption></figure></div>
+<div class="strip"><figure><img src="/menu/img/dishes/seasonal-fruit-lemon-cream.jpg" alt="Seasonal fruit &amp; lemon cream" width="900" height="1125" loading="lazy" decoding="async"></figure><figure><img src="/menu/img/dishes/rice-pudding.jpg" alt="Rice pudding" width="900" height="1125" loading="lazy" decoding="async"></figure><figure><img src="/menu/img/dishes/creme-brulee.jpg" alt="Crème brûlée" width="900" height="1125" loading="lazy" decoding="async"></figure></div>
 <div class="item" data-photo="dishes/seasonal-fruit-lemon-cream"><p class="item-head"><span class="item-name">Seasonal fruit &amp; lemon cream</span><span class="leader" aria-hidden="true"></span><span class="price">5</span></p><p class="desc">Fresh seasonal fruit with whipped lemon cream</p></div>
 <div class="item" data-photo="dishes/rice-pudding"><p class="item-head"><span class="item-name">Rice pudding</span><span class="leader" aria-hidden="true"></span><span class="price">8</span></p><p class="desc">Creamy rice pudding with fresh strawberries, strawberry sauce and caramelized walnut</p></div>
 <div class="item" data-photo="dishes/creme-brulee"><p class="item-head"><span class="item-name">Crème brûlée</span><span class="leader" aria-hidden="true"></span><span class="price">5</span></p><p class="desc">Classic vanilla crème brûlée with a caramelized sugar crust</p></div>
@@ -252,7 +252,7 @@ footer{margin-top:72px;padding-top:20px;border-top:1px solid var(--rule);color:v
 </section>
 <footer><span>Menu of 17 July 2026</span><a href="mailto:hello@albalisbon.com">hello@albalisbon.com</a><a href="https://instagram.com/albabistro.lisbon">Instagram</a><a href="/">Back to albalisbon.com</a></footer>
 </main>
-<aside class="panel" aria-hidden="true"><img src="/menu/img/dishes/scrambled-eggs.jpg" data-key="dishes/scrambled-eggs" alt="Scrambled eggs" class="on" fetchpriority="high" decoding="async"><img src="/menu/img/dishes/breakfast-plate.jpg" data-key="dishes/breakfast-plate" alt="Breakfast plate" loading="lazy" decoding="async"><img src="/menu/img/breakfast-plate.jpg" data-key="breakfast-plate" alt="Breakfast plate with sourdough, boiled eggs, avocado, butter and jam, with a matcha latte" loading="lazy" decoding="async"><img src="/menu/img/dishes/four-cheese-omelette.jpg" data-key="dishes/four-cheese-omelette" alt="Four cheese &amp; onion jam omelette" loading="lazy" decoding="async"><img src="/menu/img/dishes/truffle-mushroom-omelette.jpg" data-key="dishes/truffle-mushroom-omelette" alt="Truffle mushroom omelette" loading="lazy" decoding="async"><img src="/menu/img/dishes/green-omelette.jpg" data-key="dishes/green-omelette" alt="Green omelette" loading="lazy" decoding="async"><img src="/menu/img/dishes/mushroom-gorgonzola-crepe.jpg" data-key="dishes/mushroom-gorgonzola-crepe" alt="Mushroom &amp; gorgonzola crêpe" loading="lazy" decoding="async"><img src="/menu/img/dishes/salted-salmon-crepe.jpg" data-key="dishes/salted-salmon-crepe" alt="Salted salmon crêpe" loading="lazy" decoding="async"><img src="/menu/img/dishes/crepe-suzette.jpg" data-key="dishes/crepe-suzette" alt="Crêpe Suzette" loading="lazy" decoding="async"><img src="/menu/img/dishes/eggs-benedict-salmon.jpg" data-key="dishes/eggs-benedict-salmon" alt="Eggs Benedict – salmon" loading="lazy" decoding="async"><img src="/menu/img/dishes/eggs-benedict-pastrami.jpg" data-key="dishes/eggs-benedict-pastrami" alt="Eggs Benedict – pastrami" loading="lazy" decoding="async"><img src="/menu/img/dishes/croque-madame.jpg" data-key="dishes/croque-madame" alt="Croque madame" loading="lazy" decoding="async"><img src="/menu/img/dishes/savory-oatmeal.jpg" data-key="dishes/savory-oatmeal" alt="Savory oatmeal with prosciutto cotto" loading="lazy" decoding="async"><img src="/menu/img/dishes/sweet-oatmeal.jpg" data-key="dishes/sweet-oatmeal" alt="Sweet creamy oatmeal with berry jam" loading="lazy" decoding="async"><img src="/menu/img/savory-oatmeal-prosciutto.jpg" data-key="savory-oatmeal-prosciutto" alt="Savory oatmeal with prosciutto cotto, poached egg and grana padano" loading="lazy" decoding="async"><img src="/menu/img/dishes/seasonal-fruit-lemon-cream.jpg" data-key="dishes/seasonal-fruit-lemon-cream" alt="Seasonal fruit &amp; lemon cream" loading="lazy" decoding="async"><img src="/menu/img/dishes/rice-pudding.jpg" data-key="dishes/rice-pudding" alt="Rice pudding" loading="lazy" decoding="async"><img src="/menu/img/dishes/creme-brulee.jpg" data-key="dishes/creme-brulee" alt="Crème brûlée" loading="lazy" decoding="async"><img src="/menu/img/cappuccino-matcha-latte.jpg" data-key="cappuccino-matcha-latte" alt="Cappuccino and matcha latte" loading="lazy" decoding="async"><img src="/menu/img/strawberry-matcha.jpg" data-key="strawberry-matcha" alt="Strawberry matcha with whipped strawberry ice cream" loading="lazy" decoding="async"><img src="/menu/img/matcha-tasting-set.jpg" data-key="matcha-tasting-set" alt="Ceremonial matcha tasting set of three varieties" loading="lazy" decoding="async"><img src="/menu/img/matcha-latte.jpg" data-key="matcha-latte" alt="Barista pouring a matcha latte" loading="lazy" decoding="async"><img src="/menu/img/herbal-tea.jpg" data-key="herbal-tea" alt="Herbal tea with a teapot" loading="lazy" decoding="async"><img src="/menu/img/wine-toast.jpg" data-key="wine-toast" alt="Guests raising glasses of white wine" loading="lazy" decoding="async"><img src="/menu/img/terrace.jpg" data-key="terrace" alt="Alba&#x27;s terrace on Largo do Rato" loading="lazy" decoding="async"><p class="caption">Scrambled eggs</p></aside>
+<aside class="panel" aria-hidden="true"><img src="/menu/img/dishes/scrambled-eggs.jpg" data-key="dishes/scrambled-eggs" alt="Scrambled eggs" class="on" fetchpriority="high" decoding="async"><img src="/menu/img/dishes/breakfast-plate.jpg" data-key="dishes/breakfast-plate" alt="Breakfast plate" loading="lazy" decoding="async"><img src="/menu/img/breakfast-plate.jpg" data-key="breakfast-plate" alt="Breakfast plate with sourdough, boiled eggs, avocado, butter and jam, with a matcha latte" loading="lazy" decoding="async"><img src="/menu/img/dishes/four-cheese-omelette.jpg" data-key="dishes/four-cheese-omelette" alt="Four cheese &amp; onion jam omelette" loading="lazy" decoding="async"><img src="/menu/img/dishes/truffle-mushroom-omelette.jpg" data-key="dishes/truffle-mushroom-omelette" alt="Truffle mushroom omelette" loading="lazy" decoding="async"><img src="/menu/img/dishes/green-omelette.jpg" data-key="dishes/green-omelette" alt="Green omelette" loading="lazy" decoding="async"><img src="/menu/img/dishes/mushroom-gorgonzola-crepe.jpg" data-key="dishes/mushroom-gorgonzola-crepe" alt="Mushroom &amp; gorgonzola crêpe" loading="lazy" decoding="async"><img src="/menu/img/dishes/salted-salmon-crepe.jpg" data-key="dishes/salted-salmon-crepe" alt="Salted salmon crêpe" loading="lazy" decoding="async"><img src="/menu/img/dishes/crepe-suzette.jpg" data-key="dishes/crepe-suzette" alt="Crêpe Suzette" loading="lazy" decoding="async"><img src="/menu/img/dishes/eggs-benedict-salmon.jpg" data-key="dishes/eggs-benedict-salmon" alt="Eggs Benedict – salmon" loading="lazy" decoding="async"><img src="/menu/img/dishes/eggs-benedict-pastrami.jpg" data-key="dishes/eggs-benedict-pastrami" alt="Eggs Benedict – pastrami" loading="lazy" decoding="async"><img src="/menu/img/dishes/croque-madame.jpg" data-key="dishes/croque-madame" alt="Croque madame" loading="lazy" decoding="async"><img src="/menu/img/dishes/savory-oatmeal.jpg" data-key="dishes/savory-oatmeal" alt="Savory oatmeal with prosciutto cotto" loading="lazy" decoding="async"><img src="/menu/img/dishes/sweet-oatmeal.jpg" data-key="dishes/sweet-oatmeal" alt="Sweet creamy oatmeal with berry jam" loading="lazy" decoding="async"><img src="/menu/img/savory-oatmeal-prosciutto.jpg" data-key="savory-oatmeal-prosciutto" alt="Savory oatmeal with prosciutto cotto, poached egg and grana padano" loading="lazy" decoding="async"><img src="/menu/img/dishes/seasonal-fruit-lemon-cream.jpg" data-key="dishes/seasonal-fruit-lemon-cream" alt="Seasonal fruit &amp; lemon cream" loading="lazy" decoding="async"><img src="/menu/img/dishes/rice-pudding.jpg" data-key="dishes/rice-pudding" alt="Rice pudding" loading="lazy" decoding="async"><img src="/menu/img/dishes/creme-brulee.jpg" data-key="dishes/creme-brulee" alt="Crème brûlée" loading="lazy" decoding="async"><img src="/menu/img/cappuccino-matcha-latte.jpg" data-key="cappuccino-matcha-latte" alt="Cappuccino and matcha latte" loading="lazy" decoding="async"><img src="/menu/img/strawberry-matcha.jpg" data-key="strawberry-matcha" alt="Strawberry matcha with whipped strawberry ice cream" loading="lazy" decoding="async"><img src="/menu/img/matcha-tasting-set.jpg" data-key="matcha-tasting-set" alt="Ceremonial matcha tasting set of three varieties" loading="lazy" decoding="async"><img src="/menu/img/matcha-latte.jpg" data-key="matcha-latte" alt="Barista pouring a matcha latte" loading="lazy" decoding="async"><img src="/menu/img/herbal-tea.jpg" data-key="herbal-tea" alt="Herbal tea with a teapot" loading="lazy" decoding="async"><img src="/menu/img/wine-toast.jpg" data-key="wine-toast" alt="Guests raising glasses of white wine" loading="lazy" decoding="async"><img src="/menu/img/terrace.jpg" data-key="terrace" alt="Alba&#x27;s terrace on Largo do Rato" loading="lazy" decoding="async"><p class="caption"></p></aside>
 </div>
 <script>
 (function(){
@@ -268,7 +268,7 @@ footer{margin-top:72px;padding-top:20px;border-top:1px solid var(--rule);color:v
     if(!key||key===shown||!imgs[key])return;
     var img=imgs[key]; if(img.loading==='lazy'){img.loading='eager'}
     imgs[shown].classList.remove('on'); img.classList.add('on'); shown=key;
-    if(cap)cap.textContent=img.alt;
+    if(cap)cap.textContent=key.indexOf('dishes/')===0?'':img.alt;
   }
   function activate(sec){
     if(sec===current)return; current=sec;

diff --git a/menu/build_menu.py b/menu/build_menu.py
@@ -102,7 +102,7 @@ def section_html(sec, lang):
     if dishes:
         figs = "".join(
             f'<figure><img src="/menu/img/{k}.jpg" alt="{e(a)}" width="900" height="1125" loading="lazy" decoding="async">'
-            f'<figcaption>{e(a)}</figcaption></figure>'
+            f'</figure>'
             for k, a in dishes
         )
         parts.append(f'<div class="strip">{figs}</div>')
@@ -247,7 +247,7 @@ JS = """
     if(!key||key===shown||!imgs[key])return;
     var img=imgs[key]; if(img.loading==='lazy'){img.loading='eager'}
     imgs[shown].classList.remove('on'); img.classList.add('on'); shown=key;
-    if(cap)cap.textContent=img.alt;
+    if(cap)cap.textContent=key.indexOf('dishes/')===0?'':img.alt;
   }
   function activate(sec){
     if(sec===current)return; current=sec;
@@ -289,7 +289,7 @@ def page(lang):
             f'<img src="/menu/img/{key}.jpg" data-key="{key}" alt="{e(alt)}" '
             f'{"class=\"on\" fetchpriority=\"high\"" if first else "loading=\"lazy\""} decoding="async">'
         )
-    first_alt = e(entries[0][1])
+    first_alt = '' if entries[0][0].startswith('dishes/') else e(entries[0][1])
 
     url = f"{SITE}{c['path']}"
     return f"""<!doctype html>
